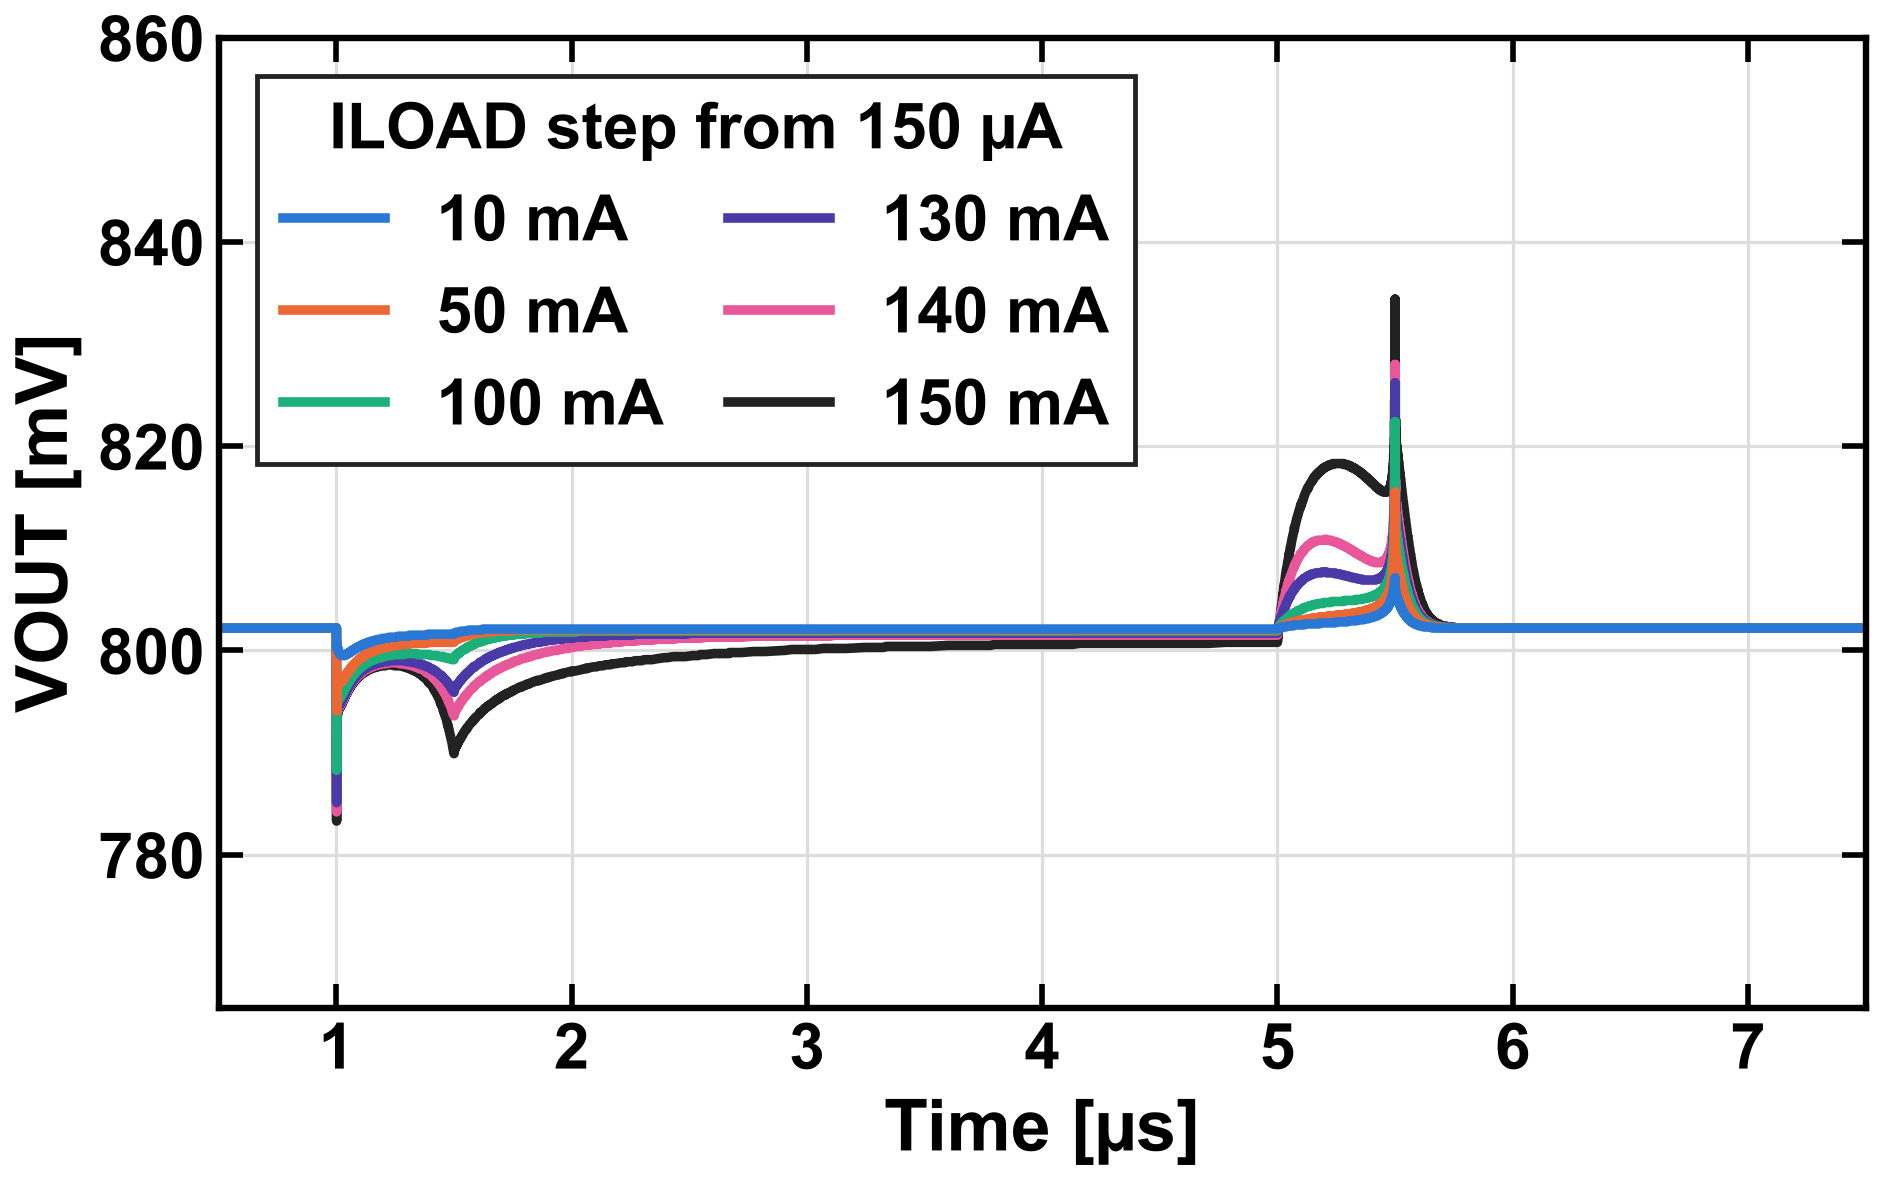
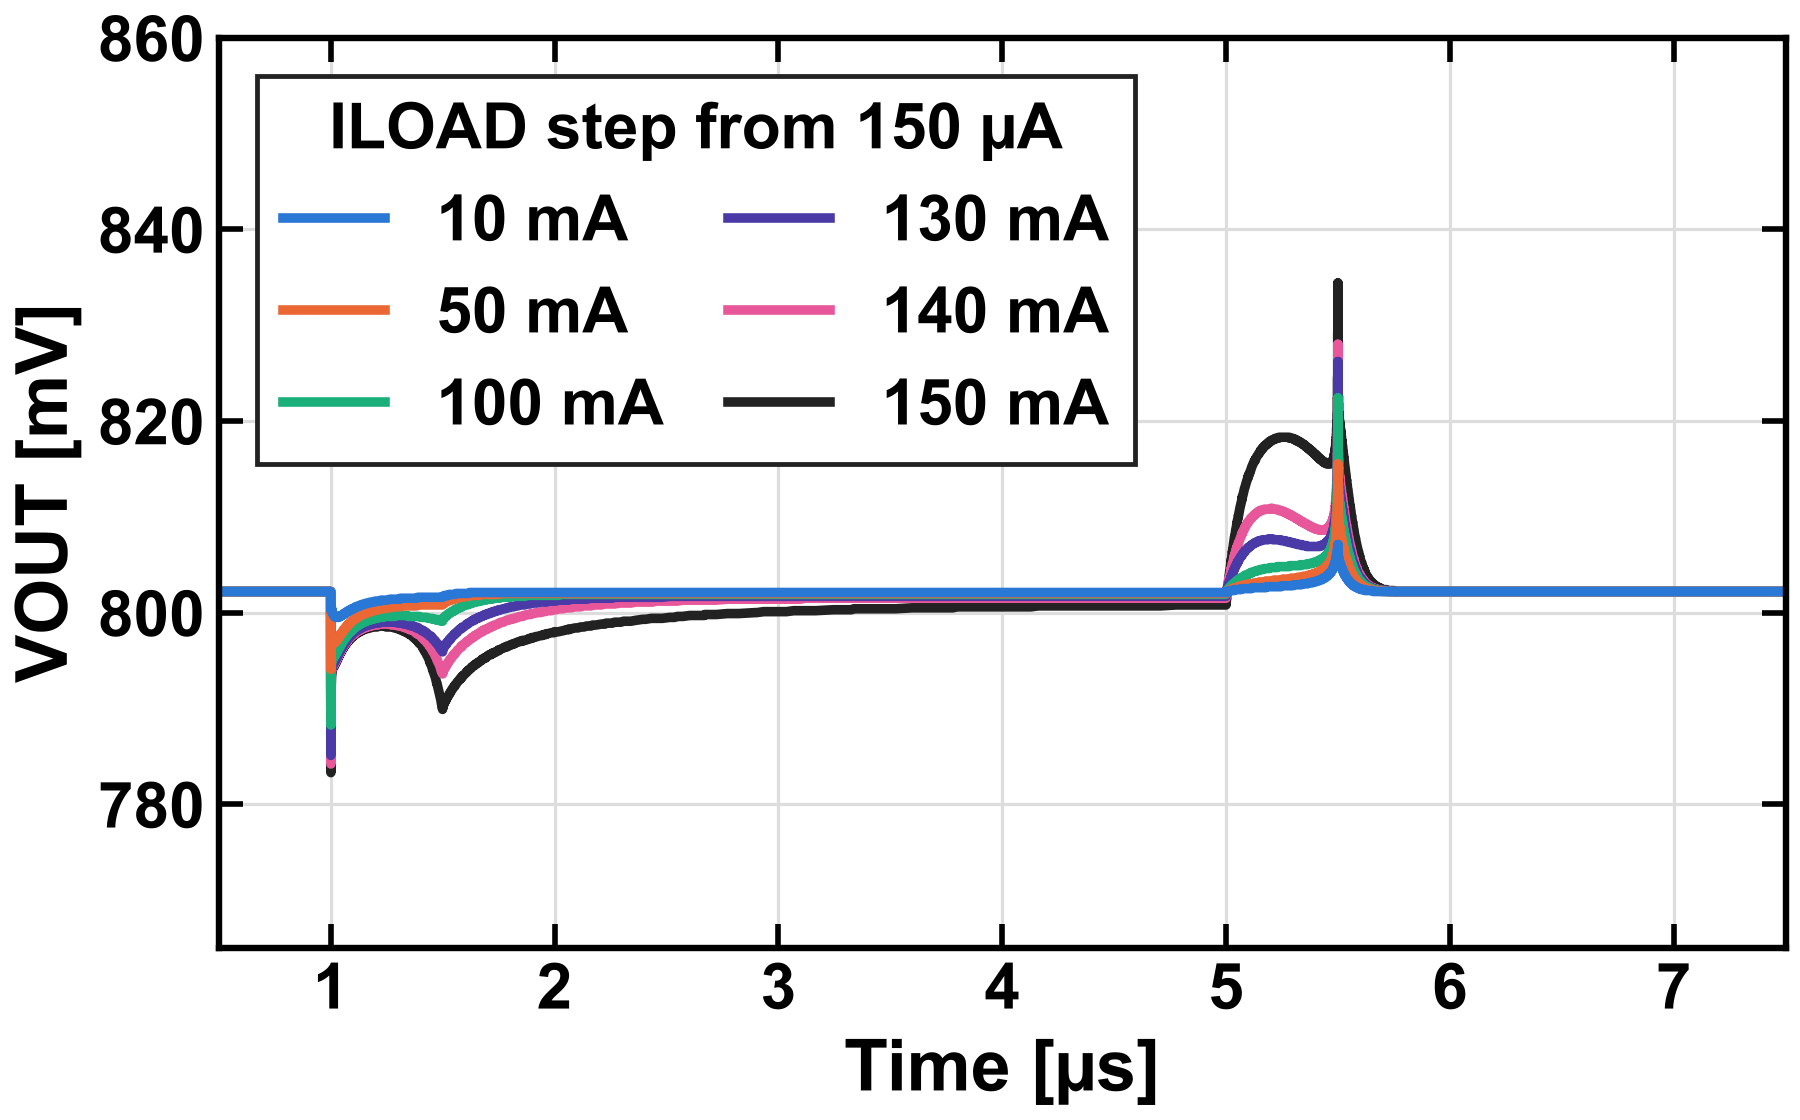
Resize slide figures for text-above-figure layouts
Load-step waveform, load-step summary and PSR are redrawn for wider,
shorter slots; the settling-time legend goes in one row so it no longer
covers the curves.

Claude-Session: https://claude.ai/code/session_0185AipuuyvYgHtcdEt8xUkq

diff --git a/scripts/slide_figures.py b/scripts/slide_figures.py
@@ -78,7 +78,7 @@ def s_load_steps():
     cols, d = load("maxload1.csv")
     t, V = d[:, 0] * 1e6, d[:, 1:]
     il = np.array([param(c) for c in cols[1:]])
-    fig, ax = sfig(940, 590)
+    fig, ax = sfig(900, 560)
     for c, k in reversed(list(zip(SER, [0, 4, 9, 12, 13, 14]))):     # largest load drawn first
         ax.plot(t, V[:, k] * 1e3, color=c, label=f"{il[k] * 1e3:.0f} mA")
     h, lab = ax.get_legend_handles_labels()
@@ -96,7 +96,7 @@ def s_load_step():
     rows = F.SUMMARY["load_step"]["rows"]
     il = np.array([r["iload_mA"] for r in rows])
     g = lambda key: np.array([r[key] for r in rows])
-    fig, (a1, a2, a3) = sfig(700, 770, nrows=3, sharex=True)
+    fig, (a1, a2, a3) = sfig(700, 590, nrows=3, sharex=True)
     a1.plot(il, g("os_mV"), color=SER[1], marker=MRK[1], mfc="white", label="Overshoot")
     a1.plot(il, g("us_mV"), color=SER[0], marker=MRK[0], mfc="white", label="Undershoot")
     txt(a1, 108, 27.5, "Overshoot", color=SER[1], ha="right", va="center", bbox=None)
@@ -107,9 +107,9 @@ def s_load_step():
     a2.plot(il, g("ts_up_ns") / 1e3, color=SER[0], marker=MRK[0], mfc="white", label="Load ↑")
     a2.plot(il, g("ts_dn_ns") / 1e3, color=SER[1], marker=MRK[1], mfc="white", label="Load ↓")
     a2.set_ylabel("Ts [µs]")
-    a2.set_ylim(0, 2.9)
+    a2.set_ylim(0, 3.4)
     a2.yaxis.set_major_locator(MultipleLocator(1))
-    a2.legend(loc="upper left", borderaxespad=0.4)
+    a2.legend(loc="upper left", ncol=2, borderaxespad=0.3, columnspacing=1.0, borderpad=0.3)
     a3.plot(il, g("dv_ss_mV"), color=SER[2], marker=MRK[2], mfc="white")
     a3.axhline(F.MAXLOAD_DV * 1e3, color=WARN, ls="--", lw=1.6)
     txt(a3, 6, F.MAXLOAD_DV * 1e3 + 0.08, "1 mV", color=WARN, va="bottom")
@@ -243,7 +243,7 @@ def s_psr():
     f, P = d[:, 0], d[:, 1:]
     il = [param(c) for c in cols[1:]]
     m = f <= F.PSR_FMAX * (1 + EPS)
-    fig, ax = sfig(880, 630)
+    fig, ax = sfig(1000, 560)
     n = len(il)
     tg = 10 ** np.arange(1.5, min(np.log10(f[m][-1]), 7.4), 1 / n)
     mk = [int(j) for j in np.searchsorted(f[m], tg)]
